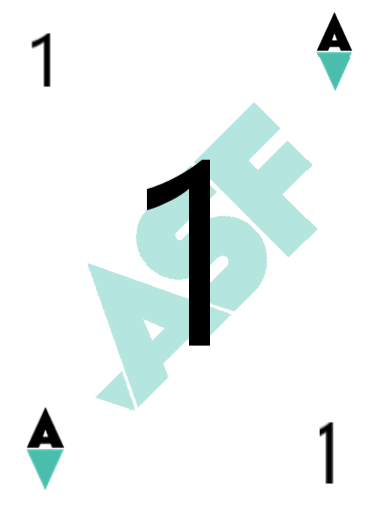
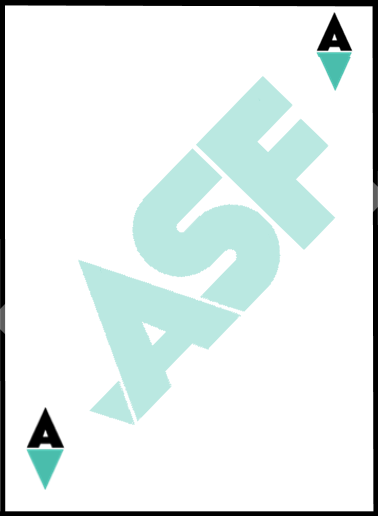
formatting changes

diff --git a/public/planningPokerScreen.html b/public/planningPokerScreen.html
@@ -16,38 +16,37 @@
       </header>
 
 			<!-- CARD LINKS -->
+		<a class="card rank-1" href="index.html">
 
-		<a class="card rank-1 hearts" href="index.html">
         <span class="rank">1</span>
-        <span class="suit">&hearts;</span>
+
     </a>
 
-		<a class="card rank-2 hearts" href="index.html">
+		<a class="card rank-2" href="index.html">
         <span class="rank">2</span>
-        <span class="suit">&hearts;</span>
     </a>
 
-		<a class="card rank-3 hearts" href="index.html">
+		<a class="card rank-3" href="index.html">
         <span class="rank">3</span>
-        <span class="suit">&hearts;</span>
+
     </a>
 
-		<a class="card rank-5 hearts" href="index.html">
+		<a class="card rank-5" href="index.html">
         <span class="rank">5</span>
-        <span class="suit">&hearts;</span>
+
     </a>
 
-		<a class="card rank-8 hearts" href="index.html">
+		<a class="card rank-8" href="index.html">
         <span class="rank">8</span>
-        <span class="suit">&hearts;</span>
+
     </a>
-		<a class="card rank-13 hearts" href="index.html">
+		<a class="card rank-13" href="index.html">
         <span class="rank">13</span>
-        <span class="suit">&hearts;</span>
+
     </a>
-		<a class="card rank-21 hearts" href="index.html">
+		<a class="card rank-21" href="index.html">
         <span class="rank">21</span>
-        <span class="suit">&hearts;</span>
+
     </a>
 
 

diff --git a/public/css/cards.css b/public/css/cards.css
@@ -38,61 +38,31 @@ body {
   }
 }
 
-/* Style the counter cards, set background color to asf teal */
+/* Style the counter cards, set background image to asf watermark */
 .card {
   display: inline-block;
-    width: 3.3em;
-    height: 4.6em;
+    width: 378px;
+    height: 516px;
     border: 1px solid #666;
     border-radius: .3em;
     padding: .25em;
-    margin: 0 .5em .5em 0;
+    margin: 1 1em 1em 1;
     text-align: center;
     font-size: 30px;
     font-weight: normal;
     font-family: Arial, sans-serif;
     position: relative;
-    background-color: #008080;
     box-shadow: .2em .2em .5em #333;
+  
 
 }
 .card:hover {
   bottom: 1em;
 }
 
-.card.hearts {
-    color: black;
-}
 
-.card .rank,
- .card .suit {
+.card .rank {
     display: block;
     line-height: 1;
-    text-align: left;
-}
-.card .suit {
-    line-height: .7;
-}
-
-/* heart rankings */
-.card.rank-1.hearts .suit:after {
-    content: "\A";
-}
-.card.rank-2.hearts .suit:after {
-    content: "\A";
-}
-.card.rank-3.hearts .suit:after {
-    content: "\A";
-}
-.card.rank-5.hearts .suit:after {
-    content: "\A";
-}
-.card.rank-8.hearts .suit:after {
-    content: "\A";
-}
-.card.rank-13.hearts .suit:after {
-    content: "\A";
-}
-.card.rank-21.hearts .suit:after {
-    content: "\A";
+    text-align: middle;
 }
